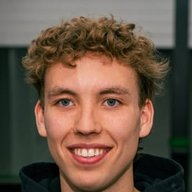
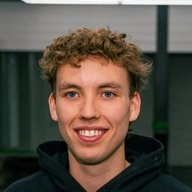
Reviews: wider crop on the two photos so the chin shows

diff --git a/index.html b/index.html
@@ -9,7 +9,7 @@
 <link rel="preconnect" href="https://fonts.googleapis.com">
 <link rel="preconnect" href="https://fonts.gstatic.com" crossorigin>
 <link href="https://fonts.googleapis.com/css2?family=Oxanium:wght@500..800&family=Urbanist:wght@400..800&display=swap" rel="stylesheet">
-<link rel="stylesheet" href="styles.css?v=30">
+<link rel="stylesheet" href="styles.css?v=31">
 <link rel="icon" href="assets/favicon.png">
 <link rel="canonical" href="https://corbodigital.com/">
 <meta property="og:type" content="website">
@@ -44,9 +44,9 @@
 
 <!-- HERO -->
 <section class="hero">
-  <video class="hero-video" autoplay muted loop playsinline poster="assets/hero-1080.jpg?v=30" aria-hidden="true">
-    <source src="assets/hero-mobile-broll.mp4?v=30" media="(max-width: 700px)" type="video/mp4">
-    <source src="assets/hero-1080.mp4?v=30" type="video/mp4">
+  <video class="hero-video" autoplay muted loop playsinline poster="assets/hero-1080.jpg?v=31" aria-hidden="true">
+    <source src="assets/hero-mobile-broll.mp4?v=31" media="(max-width: 700px)" type="video/mp4">
+    <source src="assets/hero-1080.mp4?v=31" type="video/mp4">
   </video>
   <div class="hero-veil"></div>
   <div class="hero-inner">
@@ -320,12 +320,12 @@
       <blockquote class="quote">
         <div class="q-top"><div class="stars" role="img" aria-label="5 étoiles sur 5"><svg viewBox="0 0 20 20" aria-hidden="true"><path d="M10 1.5l2.6 5.4 5.9.8-4.3 4.1 1 5.9L10 14.9l-5.2 2.8 1-5.9L1.5 7.7l5.9-.8z"/></svg><svg viewBox="0 0 20 20" aria-hidden="true"><path d="M10 1.5l2.6 5.4 5.9.8-4.3 4.1 1 5.9L10 14.9l-5.2 2.8 1-5.9L1.5 7.7l5.9-.8z"/></svg><svg viewBox="0 0 20 20" aria-hidden="true"><path d="M10 1.5l2.6 5.4 5.9.8-4.3 4.1 1 5.9L10 14.9l-5.2 2.8 1-5.9L1.5 7.7l5.9-.8z"/></svg><svg viewBox="0 0 20 20" aria-hidden="true"><path d="M10 1.5l2.6 5.4 5.9.8-4.3 4.1 1 5.9L10 14.9l-5.2 2.8 1-5.9L1.5 7.7l5.9-.8z"/></svg><svg viewBox="0 0 20 20" aria-hidden="true"><path d="M10 1.5l2.6 5.4 5.9.8-4.3 4.1 1 5.9L10 14.9l-5.2 2.8 1-5.9L1.5 7.7l5.9-.8z"/></svg></div><span class="src"><svg class="g" viewBox="0 0 48 48" aria-hidden="true"><path fill="#EA4335" d="M24 9.5c3.54 0 6.71 1.22 9.21 3.6l6.85-6.85C35.9 2.38 30.47 0 24 0 14.62 0 6.51 5.38 2.56 13.22l7.98 6.19C12.43 13.72 17.74 9.5 24 9.5z"/><path fill="#4285F4" d="M46.98 24.55c0-1.57-.15-3.09-.38-4.55H24v9.02h12.94c-.58 2.96-2.26 5.48-4.78 7.18l7.73 6c4.51-4.18 7.09-10.36 7.09-17.65z"/><path fill="#FBBC05" d="M10.53 28.59c-.48-1.45-.76-2.99-.76-4.59s.27-3.14.76-4.59l-7.98-6.19C.92 16.46 0 20.12 0 24c0 3.88.92 7.54 2.56 10.78l7.97-6.19z"/><path fill="#34A853" d="M24 48c6.48 0 11.93-2.13 15.89-5.81l-7.73-6c-2.15 1.45-4.92 2.3-8.16 2.3-6.26 0-11.57-4.22-13.47-9.91l-7.98 6.19C6.51 42.62 14.62 48 24 48z"/></svg>Avis Google</span></div>
         <p>« Entrepreneur dévoué et très professionnel. Il propose des idées innovantes et livre des résultats vidéo d'une qualité impressionnante. Service efficace et souci du détail du début à la fin. »</p>
-        <footer><img class="ini" src="assets/reviews/rg.jpg" alt="" width="40" height="40" loading="lazy"><span class="who"><strong>Raphael Gentile</strong>Client</span></footer>
+        <footer><img class="ini" src="assets/reviews/rg.jpg?v=31" alt="" width="40" height="40" loading="lazy"><span class="who"><strong>Raphael Gentile</strong>Client</span></footer>
       </blockquote>
       <blockquote class="quote">
         <div class="q-top"><div class="stars" role="img" aria-label="5 étoiles sur 5"><svg viewBox="0 0 20 20" aria-hidden="true"><path d="M10 1.5l2.6 5.4 5.9.8-4.3 4.1 1 5.9L10 14.9l-5.2 2.8 1-5.9L1.5 7.7l5.9-.8z"/></svg><svg viewBox="0 0 20 20" aria-hidden="true"><path d="M10 1.5l2.6 5.4 5.9.8-4.3 4.1 1 5.9L10 14.9l-5.2 2.8 1-5.9L1.5 7.7l5.9-.8z"/></svg><svg viewBox="0 0 20 20" aria-hidden="true"><path d="M10 1.5l2.6 5.4 5.9.8-4.3 4.1 1 5.9L10 14.9l-5.2 2.8 1-5.9L1.5 7.7l5.9-.8z"/></svg><svg viewBox="0 0 20 20" aria-hidden="true"><path d="M10 1.5l2.6 5.4 5.9.8-4.3 4.1 1 5.9L10 14.9l-5.2 2.8 1-5.9L1.5 7.7l5.9-.8z"/></svg><svg viewBox="0 0 20 20" aria-hidden="true"><path d="M10 1.5l2.6 5.4 5.9.8-4.3 4.1 1 5.9L10 14.9l-5.2 2.8 1-5.9L1.5 7.7l5.9-.8z"/></svg></div><span class="src"><svg class="g" viewBox="0 0 48 48" aria-hidden="true"><path fill="#EA4335" d="M24 9.5c3.54 0 6.71 1.22 9.21 3.6l6.85-6.85C35.9 2.38 30.47 0 24 0 14.62 0 6.51 5.38 2.56 13.22l7.98 6.19C12.43 13.72 17.74 9.5 24 9.5z"/><path fill="#4285F4" d="M46.98 24.55c0-1.57-.15-3.09-.38-4.55H24v9.02h12.94c-.58 2.96-2.26 5.48-4.78 7.18l7.73 6c4.51-4.18 7.09-10.36 7.09-17.65z"/><path fill="#FBBC05" d="M10.53 28.59c-.48-1.45-.76-2.99-.76-4.59s.27-3.14.76-4.59l-7.98-6.19C.92 16.46 0 20.12 0 24c0 3.88.92 7.54 2.56 10.78l7.97-6.19z"/><path fill="#34A853" d="M24 48c6.48 0 11.93-2.13 15.89-5.81l-7.73-6c-2.15 1.45-4.92 2.3-8.16 2.3-6.26 0-11.57-4.22-13.47-9.91l-7.98 6.19C6.51 42.62 14.62 48 24 48z"/></svg>Avis Google</span></div>
         <p>« Il offre le service de vidéo avec un drone en complément avec sa caméra et je trouve vraiment que c'est la coche de plus qui fait la différence. »</p>
-        <footer><img class="ini" src="assets/reviews/jc.jpg" alt="" width="40" height="40" loading="lazy"><span class="who"><strong>Jerome Chretien</strong>Client</span></footer>
+        <footer><img class="ini" src="assets/reviews/jc.jpg?v=31" alt="" width="40" height="40" loading="lazy"><span class="who"><strong>Jerome Chretien</strong>Client</span></footer>
       </blockquote>
     </div>
   </div>
@@ -451,6 +451,6 @@
   </form>
 </dialog>
 
-<script src="script.js?v=30" defer></script>
+<script src="script.js?v=31" defer></script>
 </body>
 </html>
